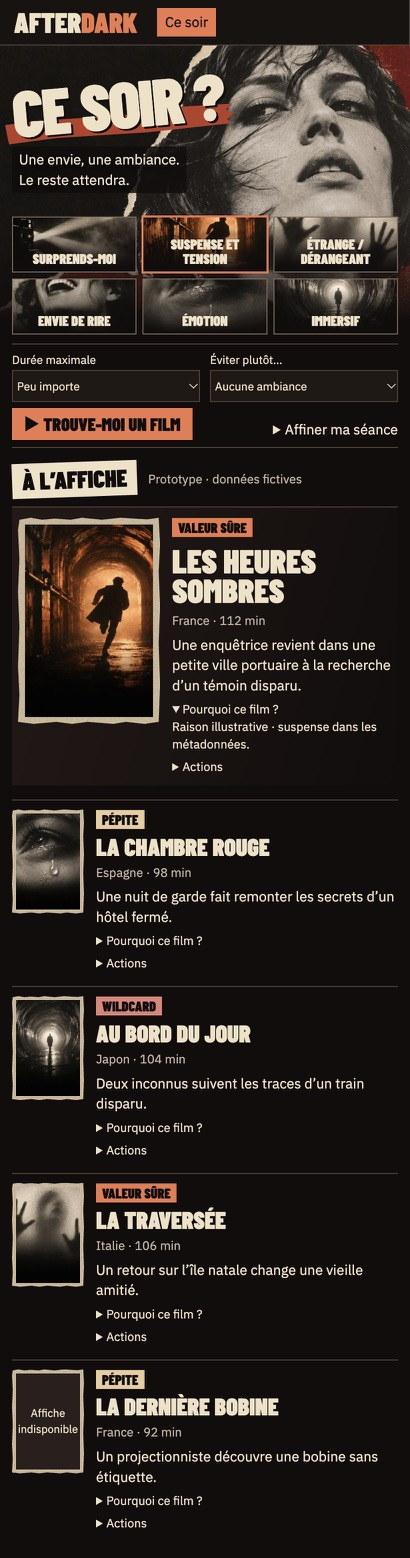
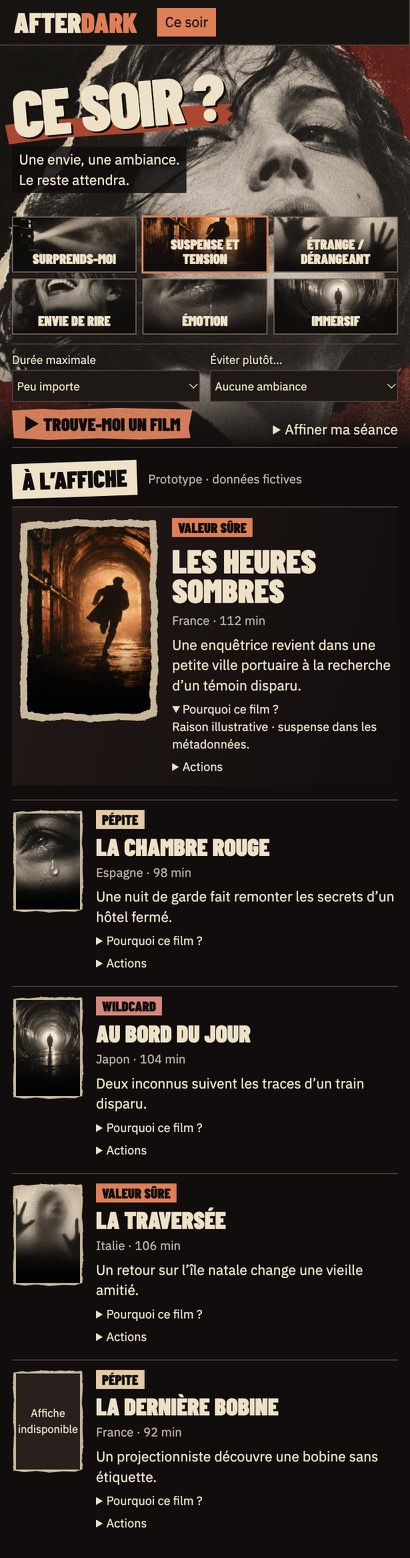
Refine studies using the four detailed design references

diff --git a/docs/prototypes/pr6-compositions/study.css b/docs/prototypes/pr6-compositions/study.css
@@ -46,3 +46,8 @@ summary{cursor:pointer;width:fit-content}
 @media(max-width:900px){.variant-b .films{grid-template-columns:1fr 1fr}.variant-b .featured{grid-column:1/-1;grid-row:auto;grid-template-columns:minmax(0,185px) minmax(0,1fr)}.variant-b .featured figure{width:100%}}
 @media(max-width:640px){.shell{display:block}aside{display:flex;gap:20px;align-items:center;padding:8px 14px;border-bottom:1px solid var(--edge)}aside strong{font-size:28px;transform:none}aside br{display:none}aside p{margin:0;padding:4px 8px}main{padding-inline:12px}.portrait{inset-inline:-12px;background-position:right 41%;background-size:auto,auto 100%}.headline{min-height:155px}.moods{grid-template-columns:repeat(3,minmax(0,1fr))}.moods label{min-height:56px}.ticket{grid-template-columns:1fr 1fr}.ticket button{justify-self:start}.ticket details{grid-column:auto;justify-self:end}.featured,.variant-b .featured{grid-template-columns:minmax(0,38%) minmax(0,1fr);gap:12px}.secondary{grid-template-columns:minmax(0,72px) minmax(0,1fr)}.variant-a .secondary{grid-column:1/-1}.variant-b .secondary figure{width:74px}}
 figure{align-self:start}
+.portrait{inset-block-end:0;background-image:linear-gradient(0deg,var(--ink),#100d0c1a 20%,transparent 40%),url(hero.jpg)}
+.ticket{position:relative;text-shadow:0 1px 2px #000}
+.ticket button{background:url(paper.svg),#eb7144;text-shadow:none;clip-path:polygon(0 8%,17% 3%,27% 6%,59% 0,100% 5%,98% 62%,99% 94%,71% 99%,48% 95%,20% 100%,1% 94%)}
+figure{clip-path:none;mask:url(tear.svg) center/100% 100% no-repeat}
+.featured figure img,.featured figure span{mask:url(tear.svg) center/100% 100% no-repeat}

diff --git a/docs/prototypes/pr6-compositions/index.html b/docs/prototypes/pr6-compositions/index.html
@@ -3,8 +3,8 @@
 <aside><strong>AFTER<br><em>DARK</em></strong><p>Ce soir</p></aside>
 <main>
 <header><div class="portrait"></div><div class="headline"><h1>CE SOIR ?</h1><p>Une envie, une ambiance.<br> Le reste attendra.</p></div>
-<fieldset class="moods"><legend>Votre humeur</legend></fieldset></header>
-<form class="ticket"><label>Durée maximale<select><option>Peu importe</option><option>2 h maximum</option></select></label><label>Éviter plutôt…<select><option>Aucune ambiance</option><option>Étrange / dérangeant</option></select></label><button>▶ Trouve-moi un film</button><details><summary>Affiner ma séance</summary><p>Pays du cinéma et langue originale</p></details></form>
+<fieldset class="moods"><legend>Votre humeur</legend></fieldset>
+<form class="ticket"><label>Durée maximale<select><option>Peu importe</option><option>2 h maximum</option></select></label><label>Éviter plutôt…<select><option>Aucune ambiance</option><option>Étrange / dérangeant</option></select></label><button>▶ Trouve-moi un film</button><details><summary>Affiner ma séance</summary><p>Pays du cinéma et langue originale</p></details></form></header>
 <section><div class="section"><h2>À L’AFFICHE</h2><span>Prototype · données fictives</span></div><div class="films"></div></section>
 </main></div>
 <script src="study.js"></script></html>

diff --git a/docs/prototypes/pr6-compositions/README.md b/docs/prototypes/pr6-compositions/README.md
@@ -24,3 +24,5 @@ Ouvrir `index.html` pour A, ou `index.html?layout=b` pour B. Les données sont f
 | 410 | [Capture](captures/a-410.jpg) | [Capture](captures/b-410.jpg) |
 
 Par rapport à la PR actuelle, les deux variantes suppriment la colonne de quatre films sur un côté. A donne la priorité à la vedette et à la lecture. B crée une planche plus dense sur grand écran et montre plus de films côte à côte sur petit écran. Les deux études conservent cinq emplacements et illustrent catégories, explications et actions. Le prototype permet de tester la composition et les disclosures. L’intégration gardera le formulaire de la PR 5 et les opérations existantes de la PR 4.
+
+Les quatre gros plans du dossier local `design-references` ont servi à préciser la finition commune aux deux variantes. Le gros plan de l’affiche guide le masque texturé de la vedette. Le plan de hiérarchie guide la différence d’échelle entre vedette et secondaires. Le gros plan des filtres guide l’alignement bas et le bouton sur papier orange. Le gros plan du hero guide le prolongement du collage jusqu’aux commandes. Les PNG de référence ne sont pas incorporés au prototype.
